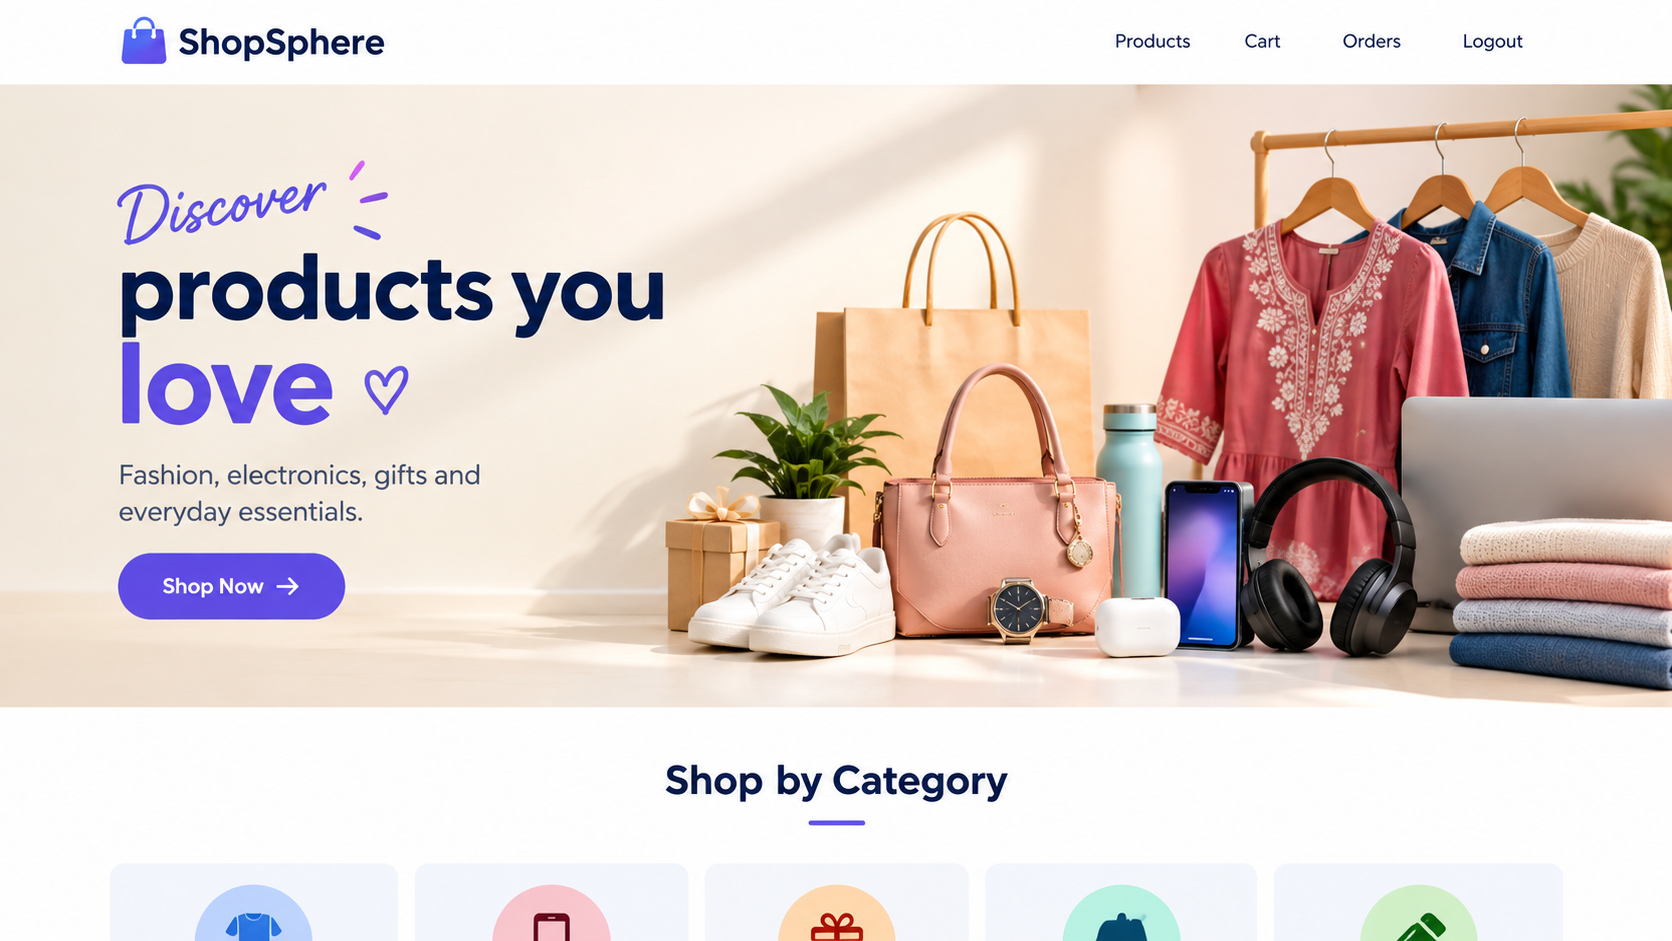
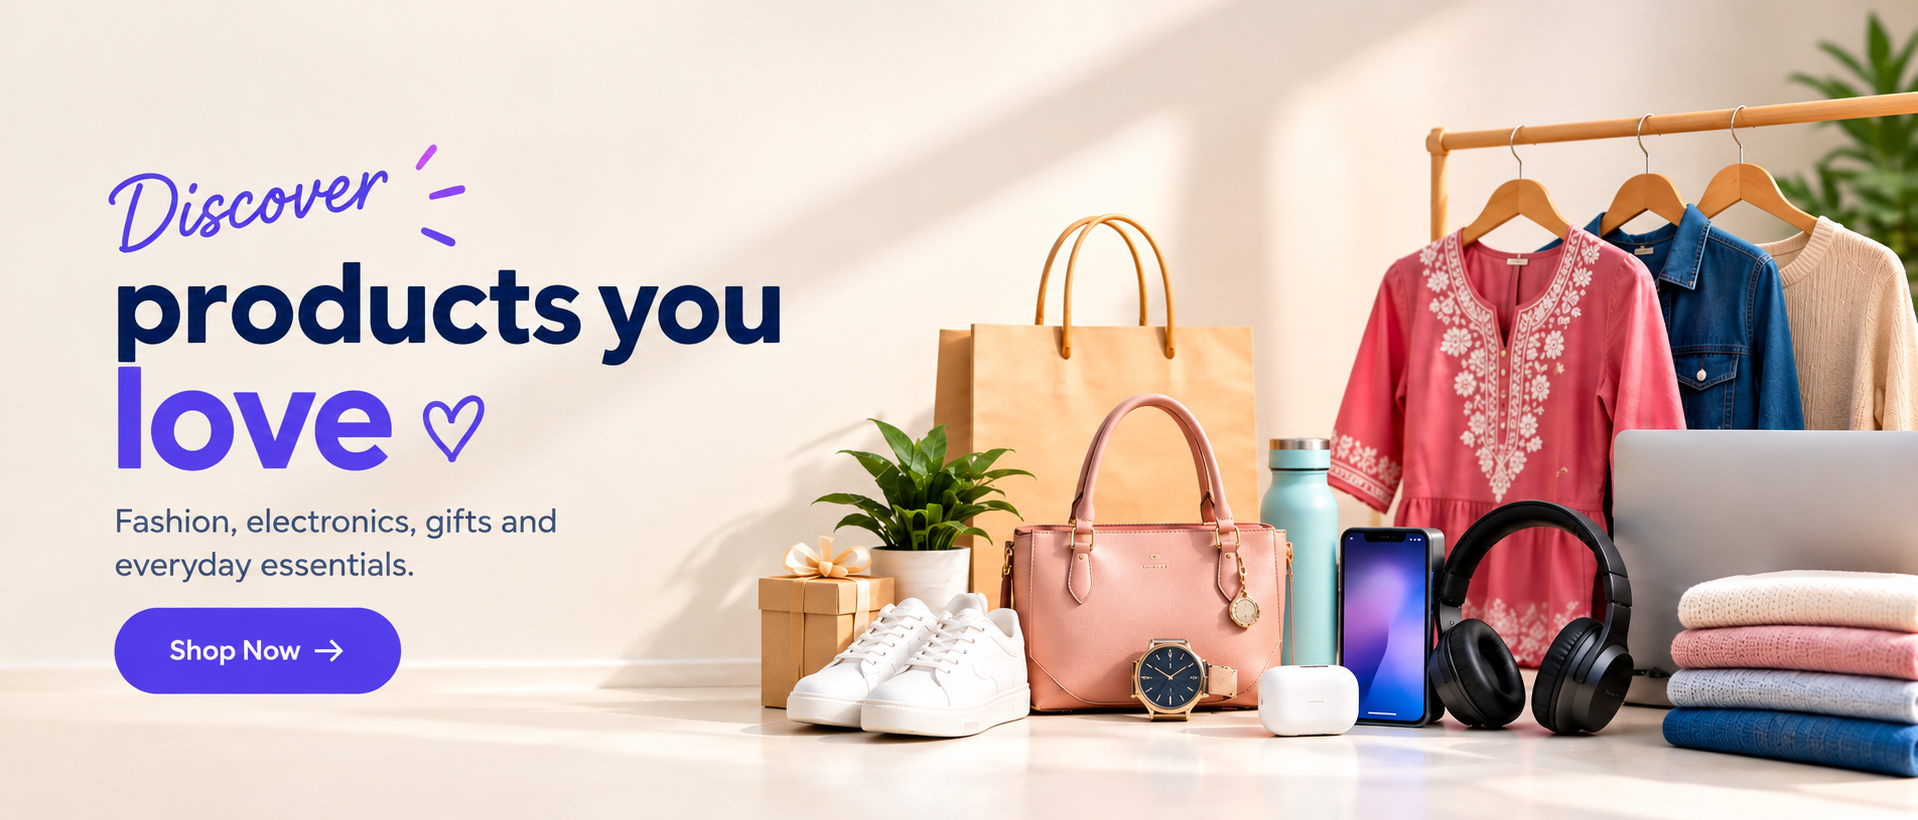
home screen image modifications

diff --git a/frontend/src/styles.css b/frontend/src/styles.css
@@ -121,6 +121,9 @@ button,
    HERO SECTION
 ========================================= */
 
+.hero{
+    margin-top: 35px;}
+
 .hero-section {
     margin-top: 28px;
     display: grid;
